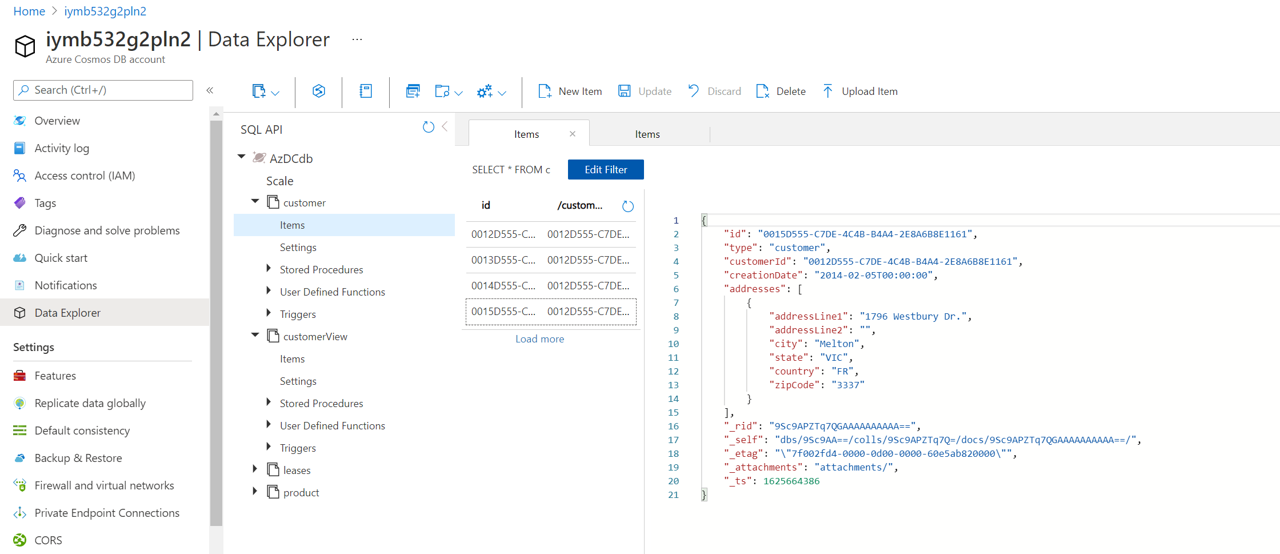
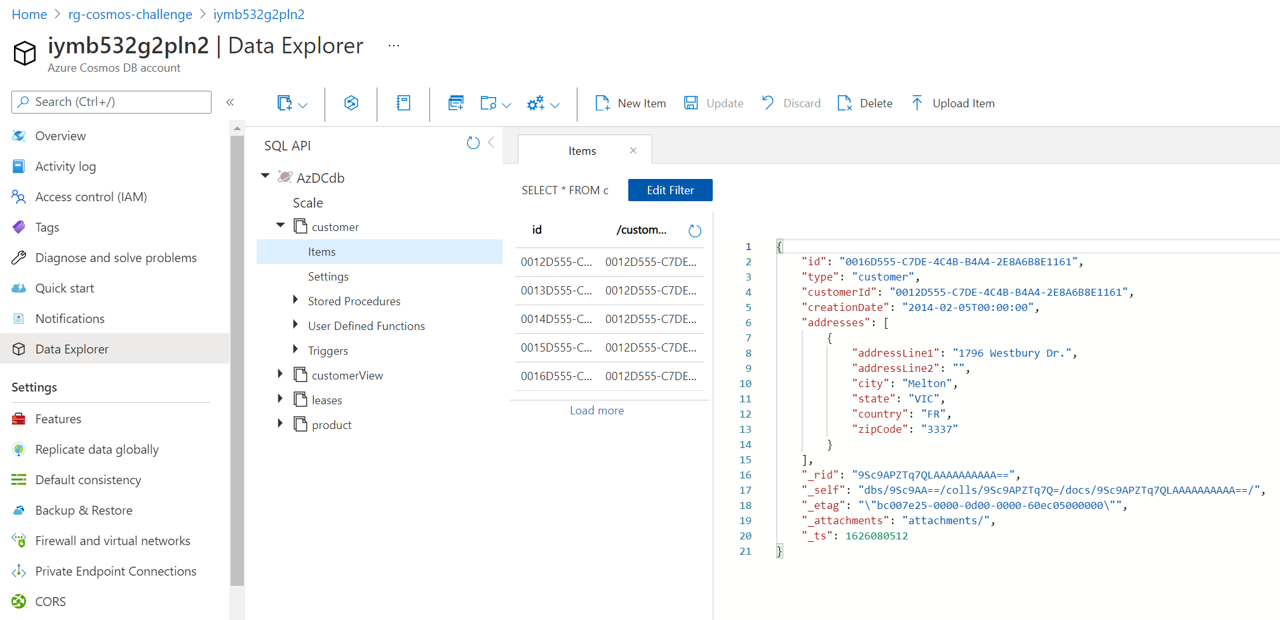
update change feed challenge readme and update screenshots

diff --git a/day3/challenges/01-challenge-cosmosdb.md b/day3/challenges/01-challenge-cosmosdb.md
@@ -553,11 +553,9 @@ SELECT TOP 10 c.firstName, c.lastName, c.salesOrderCount FROM c WHERE c.type = '
 
 ## Use the Cosmos DB Change Feed
 
-Which APIs are supported...
-
 ### Why to use it?
 
-The Azure Cosmos DB change feed enables efficient processing of large datasets with a high volume of writes. Change feed also offers an alternative to querying an entire dataset to identify what has changed. This document focuses on common change feed design patterns, design tradeoffs, and change feed limitations.
+The Azure Cosmos DB change feed enables efficient processing of large datasets with a high volume of writes. Change feed also offers an alternative to querying an entire dataset to identify what has changed. This section focuses on giving an overview of the Cosmos DB change feed, how to consume it and a sample where an Azure Function consumes the message from the change feed.
 
 Azure Cosmos DB is well-suited for IoT, gaming, retail, and operational logging applications. A common design pattern in these applications is to use changes to the data to trigger additional actions. Examples of additional actions include:
 
@@ -609,8 +607,9 @@ Create a collection "customerView" using as partition key '/area'.
 
 #### Option 2: Deployment via Bicep File
 
-We have prepared a bicep file for you which lets you automatically deploy the Cosmos DB.
+We have prepared a bicep file for you which lets you automatically deploy the Cosmos DB customer view container.
 We will go deeper into bicep files in the DevOps part on day 4.
+Go ahead and open up your cloud shell and use the following command:
 
 ```shell
 az deployment group create -g rg-cosmos-challenge --template-file addcustomerviewcontainer.bicep
@@ -618,28 +617,70 @@ az deployment group create -g rg-cosmos-challenge --template-file addcustomervie
 
 #### Explanation: what is done in index.js
 
-Explain what is done in index.js
 The function listens to every change on the customer collection and pushes customer documents that
-have Germany or France as their addresses to the customerView collection.
-Adjust the connection string of the azure function under _day3/challenges/cosmosdb/func/local.settings.json_.
+have Germany or France as their addresses to the customerView collection. 
+Go ahead and open up your visual studio code in the function folder using the following folder path:
 
-```
+```shell
 cd trainingdays\day3\challenges\cosmosdb\func> code .
 ```
 
-Run function (let it process all changes --> then show collection content)
-There are two options to start listening to the change feed list.
-We set the StartFromBeginning CosmosDBTrigger attribute in your function.json to true: _"startFromBeginning": true"_ which lets the function listen to within the change feed list from the beginning on and not just from the point in time where the function starts to read and process all changes to the change feed.Restart the Azure function. It will now read and process all changes from the beginning. Setting StartFromBeginning to true will tell the Azure function to start reading changes from the beginning of the history of the collection instead of the current time.
+Adjust the connection string of the azure function under _day3/challenges/cosmosdb/func/local.settings.json_.
 
-Update a customer in original collection and show result in "view" collection --> they are in sync
+Take a look at the function.json file in the CosmosTrigger1 folder. We set the StartFromBeginning CosmosDBTrigger attribute in your function.json to true: _"startFromBeginning": true"_ which lets the function listen to within the change feed list from the beginning on and not just from the point in time where the function starts to read and process all changes to the change feed.Restart the Azure function. It will now read and process all changes from the beginning. Setting StartFromBeginning to true will tell the Azure function to start reading changes from the beginning of the history of the collection instead of the current time.
+
+We open up the index.js file and set a break point next to line 6:
+
+```
+val.type == 'customer' &&
+```
+
+Let's go ahead and start the function using the debug mode.
+
+Then we go into the portal and insert a *Customer Item* into the *Customer Container*:
+
+```json
+{
+    "id": "0015D555-C7DE-4C4B-B4A4-2E8A6B8E1161",
+    "type": "customer",
+    "customerId": "0012D555-C7DE-4C4B-B4A4-2E8A6B8E1161",
+    "creationDate": "2014-02-05T00:00:00",
+    "addresses": [
+        {
+            "addressLine1": "1796 Westbury Dr.",
+            "addressLine2": "",
+            "city": "Melton",
+            "state": "VIC",
+            "country": "FR",
+            "zipCode": "3337"
+        }
+    ],
+    "_rid": "9Sc9APZTq7QIAAAAAAAAAA==",
+    "_self": "dbs/9Sc9AA==/colls/9Sc9APZTq7Q=/docs/9Sc9APZTq7QIAAAAAAAAAA==/",
+    "_etag": "\"9b005fe9-0000-0d00-0000-60e866950000\"",
+    "_attachments": "attachments/",
+    "_ts": 1625843349
+}
+
+```
+It should look like this:
 
 ![create a customer item](./images/cosmosdb/createcustomer.png)
 
+Once you created the *Customer Item* the Azure Function gets triggered and we will see the item in the break point which we set earlier:
+
 ![Breakpoint](./images/cosmosdb/Breakpointchangefeed.png)
+
+As final result we will see the *Customer Item* as the country is France in the *Customer View Container*:
 
 ![CustomerView](./images/cosmosdb/customerviewresult.png)
 
+What have we learned so far?
+We either added a *Customer View* Container via Portal or via bicep file. In addition we ran the Azure Function Code (locally) to listen to every change on the customer collection where we added a *french Customer Item* and replicated the *Customer Item* to the customerView collection. 
+
 **Optional**:
+
+If you want more you can deploy the third bicep file using this command and use day2 as your *cheat sheet* of how to deploy the code towards the Azure Function Service.
 
 ```
 az deployment group create -g rg-cosmos-challenge --template-file function.bicep
